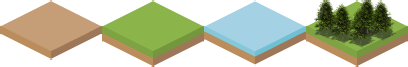
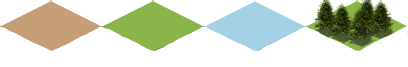
Fix terrain tiling issue

Changed region(s): [[0.0, 0.3881, 1.0, 1.0]]

diff --git a/src/views/mod.rs b/src/views/mod.rs
@@ -10,11 +10,11 @@ const PLAYER_SPEED: f64 = 150.0;
 const CHARACTER_W: f64 = 56.0;
 const CHARACTER_H: f64 = 43.0;
 
-const TERRAIN_W: f64 = 102.0;
-const TERRAIN_H: f64 = 67.0;
+const TERRAIN_W: f64 = 100.0;
+const TERRAIN_H: f64 = 50.0;
 
-const TILES_W: usize = 26;
-const TILES_H: usize = 24;
+const TILES_W: usize = 32;
+const TILES_H: usize = 29;
 
 #[derive(Clone)]
 struct Background {
@@ -103,28 +103,28 @@ impl GameView {
 
     for x in 0..TILES_W {
       for y in 0..TILES_H {
+        let x2: f64 = 100.0 * 1.5 as f64;
+        let y2: f64 = 50.0 * 1.5 as f64;
         tiles.push(TerrainTile {
           rect: Rectangle {
-            x: 102.0 * x as f64,
-            y: 64.0 * y as f64,
+            x: 100.0 * x as f64,
+            y: 50.0 * y as f64,
             w: TERRAIN_W,
             h: TERRAIN_H,
           },
           terrain_sprites: terrain_sprites.clone(),
           current: TerrainFrame::Grass,
         });
-        let x2: f64 = 102.0 * 1.5 as f64;
-        let y2: f64 = 64.0 * 1.5 as f64;
-        println!("x2 y2 {:?} {:?}", x2 ,y2);
+
         tiles.push(TerrainTile {
           rect: Rectangle {
-            x: 102.0 * f64::value_from(x).unwrap() + x2 as f64,
-            y: 64.0 * f64::value_from(y).unwrap() - y2 as f64,
+            x: 100.0 * f64::value_from(x).unwrap() - x2 as f64,
+            y: 50.0 * f64::value_from(y).unwrap() - y2 as f64,
             w: TERRAIN_W,
             h: TERRAIN_H,
           },
           terrain_sprites: terrain_sprites.clone(),
-          current: TerrainFrame::Grass,
+          current: TerrainFrame::Sand,
         });
       }
     }

diff --git a/src/game/mod.rs b/src/game/mod.rs
@@ -38,6 +38,12 @@ impl<'window> Game<'window> {
   }
 }
 
+fn cartesian_to_isometric(pointX: f64, pointY: f64) -> (f64, f64) {
+  let x = pointX - pointY;
+  let y = (pointX + pointY) / 2.0;
+  (x,y)
+}
+
 pub enum ViewAction {
   None,
   Quit,
